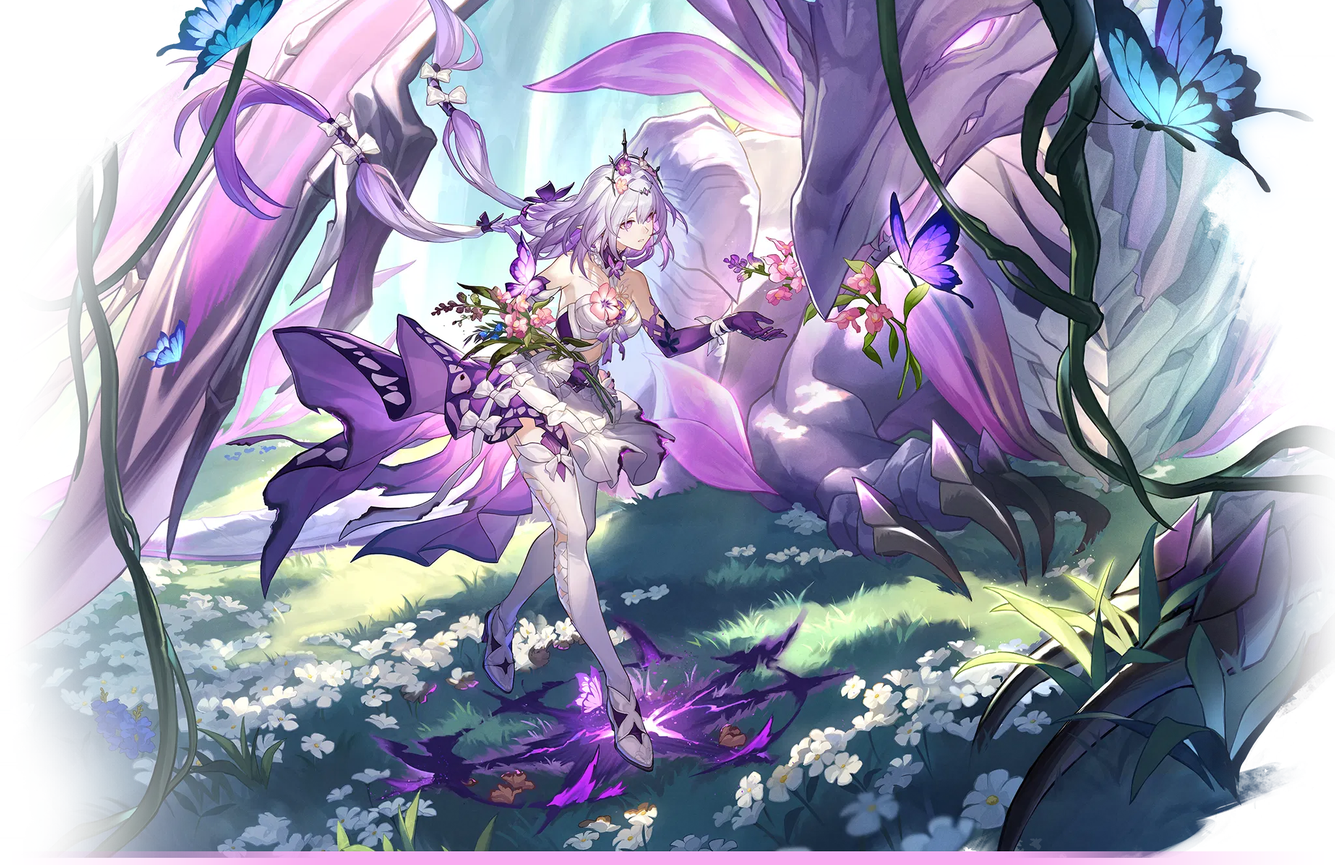
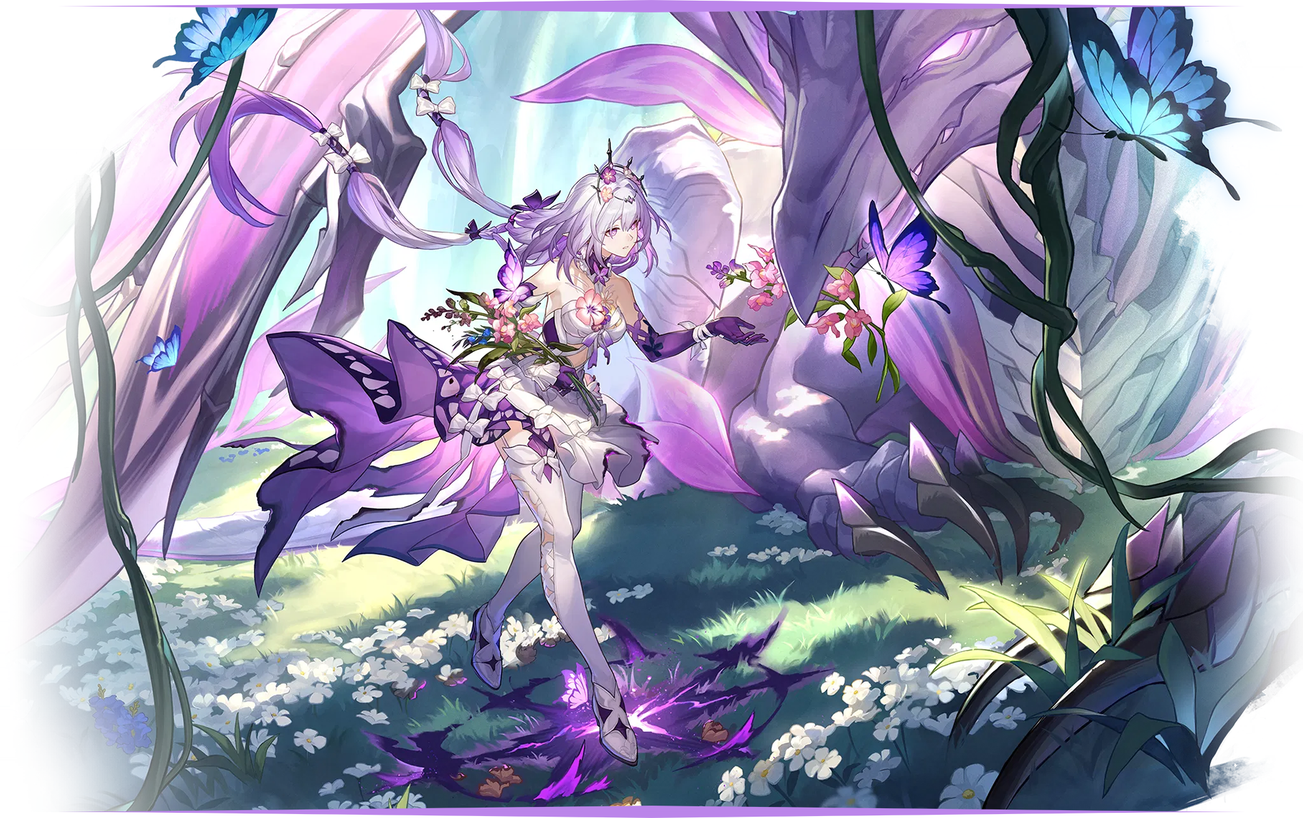
ajout d'un spacer et du texte

diff --git a/index.html b/index.html
@@ -49,22 +49,18 @@
                         <img src="images/images-characters/68_Castorice.webp" alt="Castorice">
                     </div>
                     <div class="poster__logo">
-                        <img src="images/characters-names/Castorice.webp" alt="Nom du personnage Castorice">
+                        <img src="images/characters-names/Castorice.webp" alt="Name of the character Castorice">
                     </div>
                 </div>
             </div>
 
+            <div class="spacer"></div>
             <div class="container">
-                <div class="editorial" style="color:#fff;font-size:18px;text-align:center;margin-top:50%;">
-                    <p>Lorem Ipsum is simply dummy text of the printing and typesetting industry. Lorem Ipsum has been the industry's standard dummy text ever since the 1500s, when an unknown printer took a galley of type and scrambled it to make a type specimen book. It has survived not only five centuries, but also the leap into electronic typesetting, remaining essentially unchanged. It was popularised in the 1960s with the release of Letraset sheets containing Lorem Ipsum passages, and more recently with desktop publishing software like Aldus PageMaker including versions of Lorem Ipsum.</p>
-                    <p>Lorem Ipsum is simply dummy text of the printing and typesetting industry. Lorem Ipsum has been the industry's standard dummy text ever since the 1500s, when an unknown printer took a galley of type and scrambled it to make a type specimen book. It has survived not only five centuries, but also the leap into electronic typesetting, remaining essentially unchanged. It was popularised in the 1960s with the release of Letraset sheets containing Lorem Ipsum passages, and more recently with desktop publishing software like Aldus PageMaker including versions of Lorem Ipsum.</p>
-                    <p>Lorem Ipsum is simply dummy text of the printing and typesetting industry. Lorem Ipsum has been the industry's standard dummy text ever since the 1500s, when an unknown printer took a galley of type and scrambled it to make a type specimen book. It has survived not only five centuries, but also the leap into electronic typesetting, remaining essentially unchanged. It was popularised in the 1960s with the release of Letraset sheets containing Lorem Ipsum passages, and more recently with desktop publishing software like Aldus PageMaker including versions of Lorem Ipsum.</p>
-                    <p>Lorem Ipsum is simply dummy text of the printing and typesetting industry. Lorem Ipsum has been the industry's standard dummy text ever since the 1500s, when an unknown printer took a galley of type and scrambled it to make a type specimen book. It has survived not only five centuries, but also the leap into electronic typesetting, remaining essentially unchanged. It was popularised in the 1960s with the release of Letraset sheets containing Lorem Ipsum passages, and more recently with desktop publishing software like Aldus PageMaker including versions of Lorem Ipsum.</p>
-                    <p>Lorem Ipsum is simply dummy text of the printing and typesetting industry. Lorem Ipsum has been the industry's standard dummy text ever since the 1500s, when an unknown printer took a galley of type and scrambled it to make a type specimen book. It has survived not only five centuries, but also the leap into electronic typesetting, remaining essentially unchanged. It was popularised in the 1960s with the release of Letraset sheets containing Lorem Ipsum passages, and more recently with desktop publishing software like Aldus PageMaker including versions of Lorem Ipsum.</p>
-                    <p>Lorem Ipsum is simply dummy text of the printing and typesetting industry. Lorem Ipsum has been the industry's standard dummy text ever since the 1500s, when an unknown printer took a galley of type and scrambled it to make a type specimen book. It has survived not only five centuries, but also the leap into electronic typesetting, remaining essentially unchanged. It was popularised in the 1960s with the release of Letraset sheets containing Lorem Ipsum passages, and more recently with desktop publishing software like Aldus PageMaker including versions of Lorem Ipsum.</p>
-                    <p>Lorem Ipsum is simply dummy text of the printing and typesetting industry. Lorem Ipsum has been the industry's standard dummy text ever since the 1500s, when an unknown printer took a galley of type and scrambled it to make a type specimen book. It has survived not only five centuries, but also the leap into electronic typesetting, remaining essentially unchanged. It was popularised in the 1960s with the release of Letraset sheets containing Lorem Ipsum passages, and more recently with desktop publishing software like Aldus PageMaker including versions of Lorem Ipsum.</p>
+                <div class="container__text">
+                    <p>In Aidonia, a land of endless snowfall and reverence for death, a gentle slumber falls upon the world. Castorice, daughter of the River of Souls and Chrysos Heir, begins her journey in search of Death’s Coreflame. Burdened with the sorrow of countless souls, she must walk the path of solitude.</p>
                 </div>
             </div>
+        
 
 
     </div>

diff --git a/dist/css/theme.css b/dist/css/theme.css
@@ -1,1 +1,1 @@
-@layer reset{*,:after,:before{box-sizing:border-box}a,b,blockquote,body,canvas,caption,code,div,em,embed,fieldset,figure,footer,form,h1,h2,h3,h4,h5,h6,header,html,i,iframe,img,label,li,main,nav,object,ol,p,pre,section,small,span,strike,strong,sub,sup,table,tbody,td,tfoot,th,thead,tr,tt,u,ul,video{margin:0;padding:0;border:0;font:inherit;vertical-align:baseline;text-size-adjust:none}ol,ul{list-style:none}footer,header,main,nav,section{display:block}body{line-height:1}blockquote,q{quotes:none}blockquote:after,blockquote:before,q:after,q:before{content:none}table{border-collapse:collapse;border-spacing:0}input{-webkit-appearance:none;border-radius:0}}body{font-family:var(--font-family-base);background:linear-gradient(to bottom,#373f51 0,#373f51 40%,#5a3793 100%);background-attachment:fixed}:root{--text-color:#fdfdff;--background-dark:#1b1b1e;--background-light:#373F51;--font-family-base:"Rubik", sans-serif;--font-size-title:24px;--font-size-subtitle:16px;--font-size-text:14px}#header{position:sticky;top:0;z-index:9}.header-background{background-color:var(--background-dark);box-shadow:rgba(0,0,0,.09) 0 2px 1px,rgba(0,0,0,.09) 0 4px 2px,rgba(0,0,0,.09) 0 8px 4px,rgba(0,0,0,.09) 0 16px 8px,rgba(0,0,0,.09) 0 32px 16px;padding:15px;width:100%}.header-container,.header-logo-container{display:flex;align-items:center;justify-content:space-between}.header-title img{height:25px;width:200px;margin-left:20px}.header-logo img{height:40px;width:40px}.header-container ul li{list-style:none;display:inline-block}.header-container ul li a{font-weight:700;text-decoration:none;color:var(--text-color);margin-right:25px;margin-left:25px;background-color:var(--background-light);border-radius:20px;padding:5px 10px}.header-hamburger-menu{display:none;align-items:center;width:40px;height:40px}.poster{position:relative;z-index:-1;height:100%;min-height:100%}.poster__content{width:100%;height:100%;top:0;left:0;right:0}.poster__bg{width:100%;height:100%;position:relative}.poster__bg img{position:absolute;width:100%}.poster__logo{text-align:center;padding-top:20px}.poster__logo img{width:40%;min-width:350px}.new-character,.poster__logo{position:relative}.new-character-image-container{display:flex;align-items:center;justify-content:center;position:absolute;z-index:-1}.new-character-image{width:80%;height:80%}.new-character-name{padding:20px}.new-character-name,.new-character-name-container a{display:flex;align-items:center;justify-content:center}.new-character-name-container a img{width:50%}.container{padding-left:20px;padding-right:20px;margin:0 auto;max-width:1200px}@media (max-width:480px){.header-title img{display:none}}@media (max-width:1200px){.header-container ul li{display:none}.header-hamburger-menu{display:flex}}
+@layer reset{*,:after,:before{box-sizing:border-box}a,b,blockquote,body,canvas,caption,code,div,em,embed,fieldset,figure,footer,form,h1,h2,h3,h4,h5,h6,header,html,i,iframe,img,label,li,main,nav,object,ol,p,pre,section,small,span,strike,strong,sub,sup,table,tbody,td,tfoot,th,thead,tr,tt,u,ul,video{margin:0;padding:0;border:0;font:inherit;vertical-align:baseline;text-size-adjust:none}ol,ul{list-style:none}footer,header,main,nav,section{display:block}body{line-height:1}blockquote,q{quotes:none}blockquote:after,blockquote:before,q:after,q:before{content:none}table{border-collapse:collapse;border-spacing:0}input{-webkit-appearance:none;border-radius:0}}body{font-family:var(--font-family-base);background:linear-gradient(to bottom,#373f51 0,#373f51 40%,#5a3793 100%);background-attachment:fixed}:root{--text-color:#fdfdff;--background-dark:#1b1b1e;--background-light:#373F51;--font-family-base:"Rubik", sans-serif;--font-size-title:24px;--font-size-subtitle:16px;--font-size-text:14px}#header{position:sticky;top:0;z-index:9}.header-background{background-color:var(--background-dark);box-shadow:rgba(0,0,0,.09) 0 2px 1px,rgba(0,0,0,.09) 0 4px 2px,rgba(0,0,0,.09) 0 8px 4px,rgba(0,0,0,.09) 0 16px 8px,rgba(0,0,0,.09) 0 32px 16px;padding:15px;width:100%}.header-container,.header-logo-container{display:flex;align-items:center;justify-content:space-between}.header-title img{height:25px;width:200px;margin-left:20px}.header-logo img{height:40px;width:40px}.header-container ul li{list-style:none;display:inline-block}.header-container ul li a{font-weight:700;text-decoration:none;color:var(--text-color);margin-right:25px;margin-left:25px;background-color:var(--background-light);border-radius:20px;padding:5px 10px}.header-hamburger-menu{display:none;align-items:center;width:40px;height:40px}.poster{position:relative;z-index:-1;height:100%;min-height:100%}.poster__content{width:100%;height:100%;top:0;left:0;right:0}.poster__bg,.poster__logo{width:100%;height:100%;position:relative}.poster__bg img,.poster__logo img{position:absolute;width:100%}.poster__logo{text-align:center;width:50%}.poster__logo img{margin-top:25px}.spacer{height:calc(320px + 1030*(90vw - 480px)/1440)}.container{padding:20px}.container__text p{text-align:center;font-weight:700;color:var(--text-color)}@media (max-width:480px){.header-title img{display:none}}@media (max-width:1200px){.header-container ul li{display:none}.header-hamburger-menu{display:flex}}@media (max-width:1024px){.poster__logo img{margin-top:15px}}@media (max-width:768px){.poster__logo img{margin-top:10px}}

diff --git a/assets/styles/components/_poster.scss b/assets/styles/components/_poster.scss
@@ -26,49 +26,23 @@
     }
 
     &__logo {
-        position: relative;
         text-align: center;
-        padding-top: 20px;
+        position: relative;
+        width: 50%;
+        height: 100%;
         
         img {
-            width: 40%;
-            min-width: 350px;
+            margin-top: 25px;
+            position: absolute;
+            width: 100%;
+
+            @media (max-width: 1024px) {
+                margin-top: 15px;
+            }
+
+            @media (max-width: 768px) {
+                margin-top: 10px;
+            }
         }
     }
-}
-
-
-
-.new-character {
-    position: relative;
-}
-
-.new-character-image-container {
-    display: flex;
-    align-items: center;
-    justify-content: center;
-    position: absolute;
-    z-index: -1;
-}
-
-.new-character-image {
-    width: 80%;
-    height: 80%;
-}
-
-.new-character-name {
-    display: flex;
-    align-items: center;
-    justify-content: center;
-    padding: 20px;
-}
-
-.new-character-name-container a {
-    display: flex;
-    align-items: center;
-    justify-content: center;
-}
-
-.new-character-name-container a img {
-    width: 50%;
 }

diff --git a/assets/styles/components/_container.scss b/assets/styles/components/_container.scss
@@ -1,6 +1,13 @@
+.spacer {
+    height: calc(320px + (1350 - 320) * ((90vw - 480px) / (1920 - 480)));
+}
+
 .container {
-    padding-left: 20px;
-    padding-right: 20px;
-    margin: 0 auto;
-    max-width: 1200px;
+    padding: 20px;
+
+    &__text p {
+        text-align: center;
+        font-weight: bold;
+        color: var(--text-color);
+    }
 }

diff --git a/assets/styles/components/_spacer.scss b/assets/styles/components/_spacer.scss
@@ -1,0 +1,3 @@
+.spacer {
+    height: 800px;
+}
